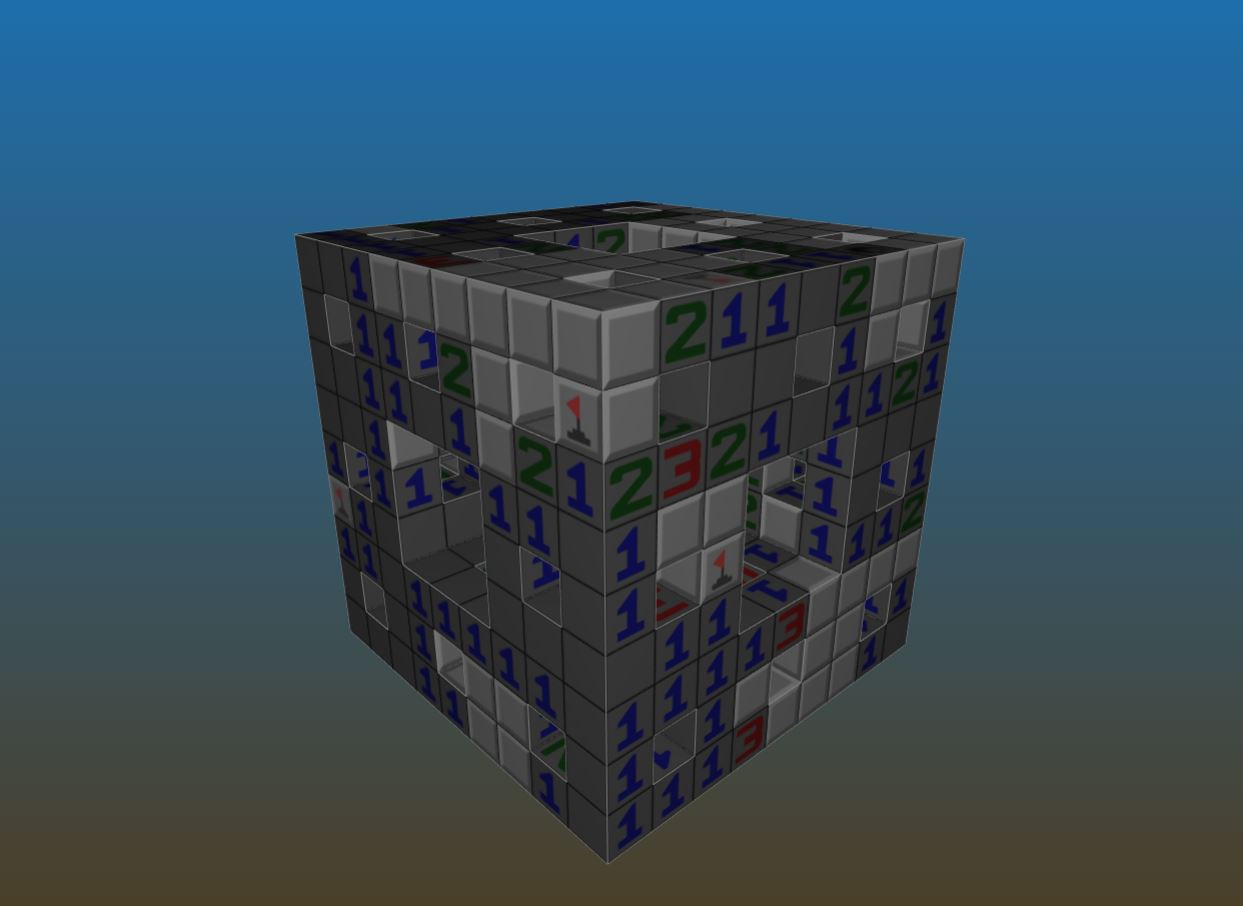
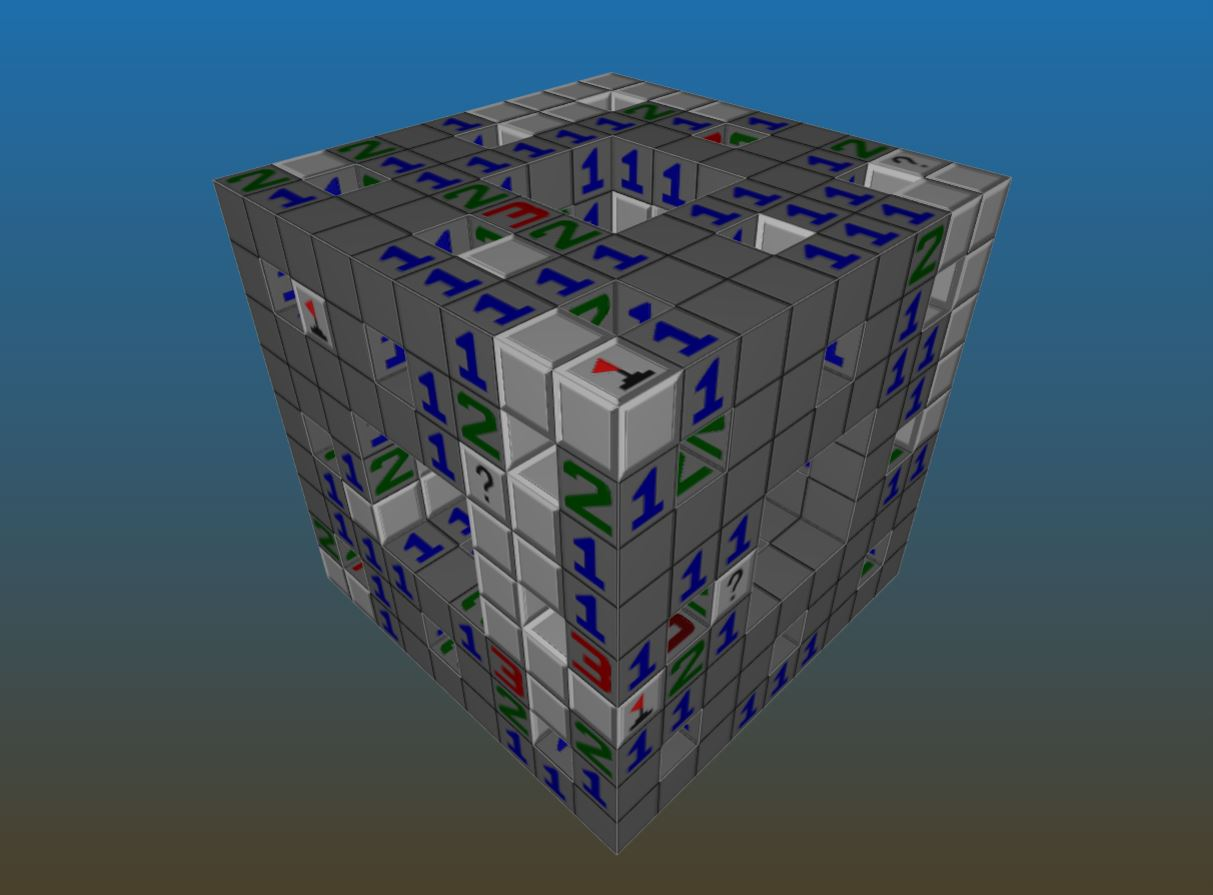
Upgraded game picture

Changed region(s): [[0.1525, 0.0603, 0.8541, 0.9654]]

diff --git a/src/engine/tms/viewer.js b/src/engine/tms/viewer.js
@@ -283,7 +283,7 @@ function TMSViewer() {
          */
         ambientlight: {
             color: 0xffffff,
-            intensity: 0.15,
+            intensity: 0.25,
         },
 
         /**
